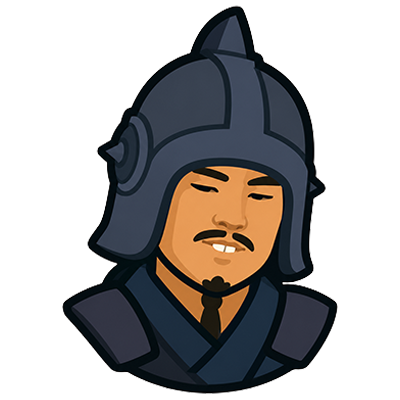
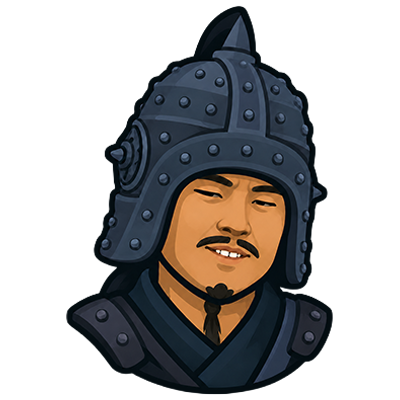
add sun-qian script

Changed region(s): [[0.15, 0.0, 0.84, 0.99], [0.45, 0.24, 0.48, 0.27], [0.21, 0.84, 0.24, 0.87]]

diff --git a/Powers/ScriptSunQianPower.cs b/Powers/ScriptSunQianPower.cs
@@ -1,0 +1,56 @@
+using System.Collections.Generic;
+using System.Threading.Tasks;
+using MegaCrit.Sts2.Core.Commands;
+using MegaCrit.Sts2.Core.Entities.Cards;
+using MegaCrit.Sts2.Core.Entities.Creatures;
+using MegaCrit.Sts2.Core.Entities.Players;
+using MegaCrit.Sts2.Core.GameActions.Multiplayer;
+using MegaCrit.Sts2.Core.Localization.DynamicVars;
+using MegaCrit.Sts2.Core.Models;
+using Squ.Cards;
+using STS2RitsuLib.Interop.AutoRegistration;
+using STS2RitsuLib.Scaffolding.Content;
+
+#nullable enable
+
+namespace Squ.Powers;
+
+[RegisterPower]
+public sealed class ScriptSunQianPower : ScriptPowerTemplate
+{
+	private sealed class Data
+	{
+		public int DrawOnLift;
+	}
+
+	public override PowerAssetProfile AssetProfile => new(
+		IconPath: "res://images/powers/ScriptSunqianPower.png",
+		BigIconPath: "res://images/powers/ScriptSunqianPowerBig.png");
+
+	protected override IEnumerable<DynamicVar> CanonicalVars =>
+	[
+		new CardsVar(1),
+	];
+
+	protected override object InitInternalData() => new Data();
+
+	public override Task AfterApplied(Creature? applier, CardModel? cardSource)
+	{
+		int drawOnLift = cardSource is SunQianScript { IsUpgraded: true } ? 2 : 1;
+		GetInternalData<Data>().DrawOnLift = drawOnLift;
+		DynamicVars.Cards.BaseValue = drawOnLift;
+		return Task.CompletedTask;
+	}
+
+	public override async Task AfterRemoved(Creature oldOwner)
+	{
+		int drawOnLift = GetInternalData<Data>().DrawOnLift;
+		Player? player = oldOwner.Player;
+		if (drawOnLift > 0 && player is not null)
+		{
+			await CardPileCmd.Draw(new ThrowingPlayerChoiceContext(), drawOnLift, player);
+		}
+
+		await base.AfterRemoved(oldOwner);
+	}
+}

diff --git a/Relics/BoxLunchRelic.cs b/Relics/BoxLunchRelic.cs
@@ -32,6 +32,7 @@ public sealed class BoxLunchRelic : ScriptRelicTemplate
 
 	public override RelicAssetProfile AssetProfile => new(
 		IconPath: "res://images/relics/BoxLunchRelic.png",
+		IconOutlinePath: "res://images/relics/BoxLunchRelicOutline.png",
 		BigIconPath: "res://images/relics/BoxLunchRelicBig.png");
 
 	public override async Task AfterSideTurnStart(